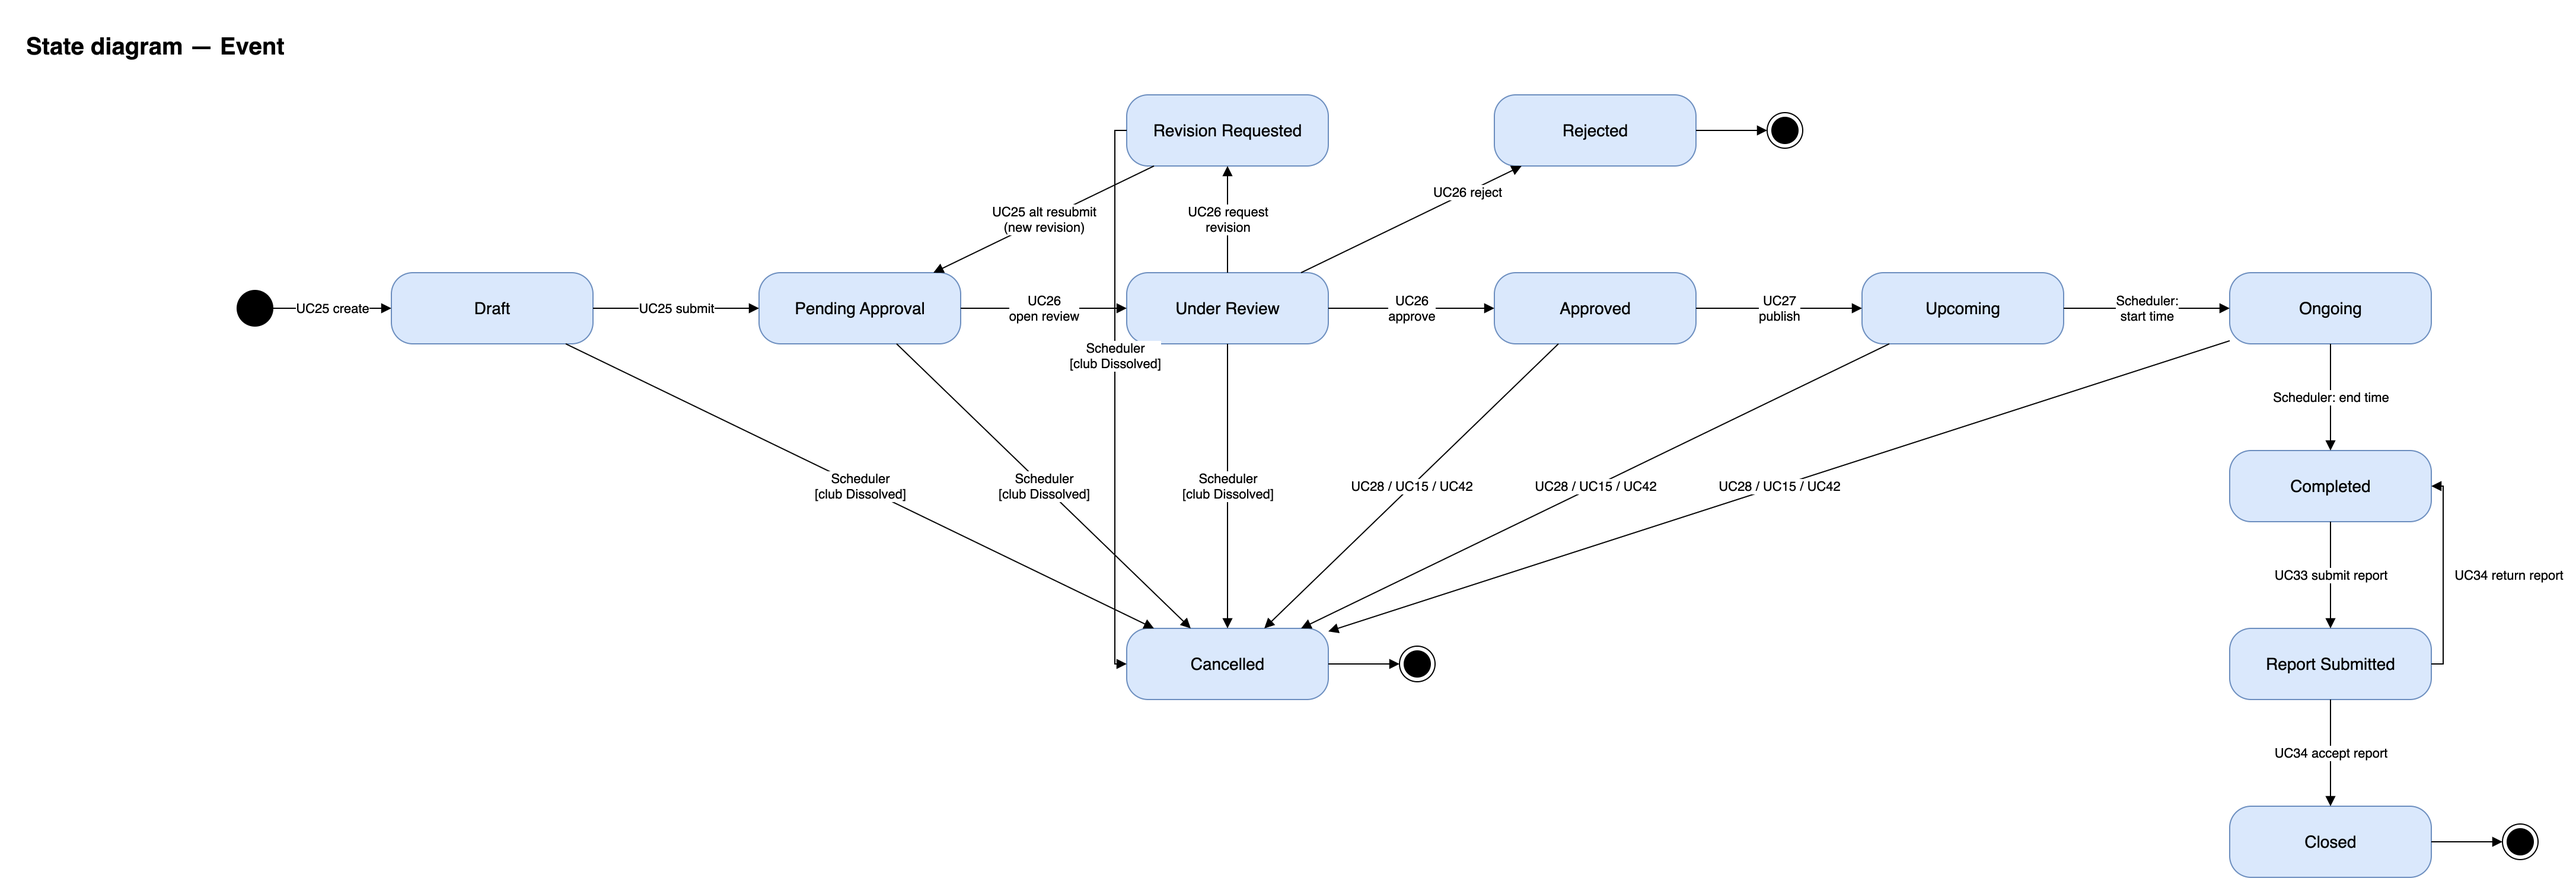
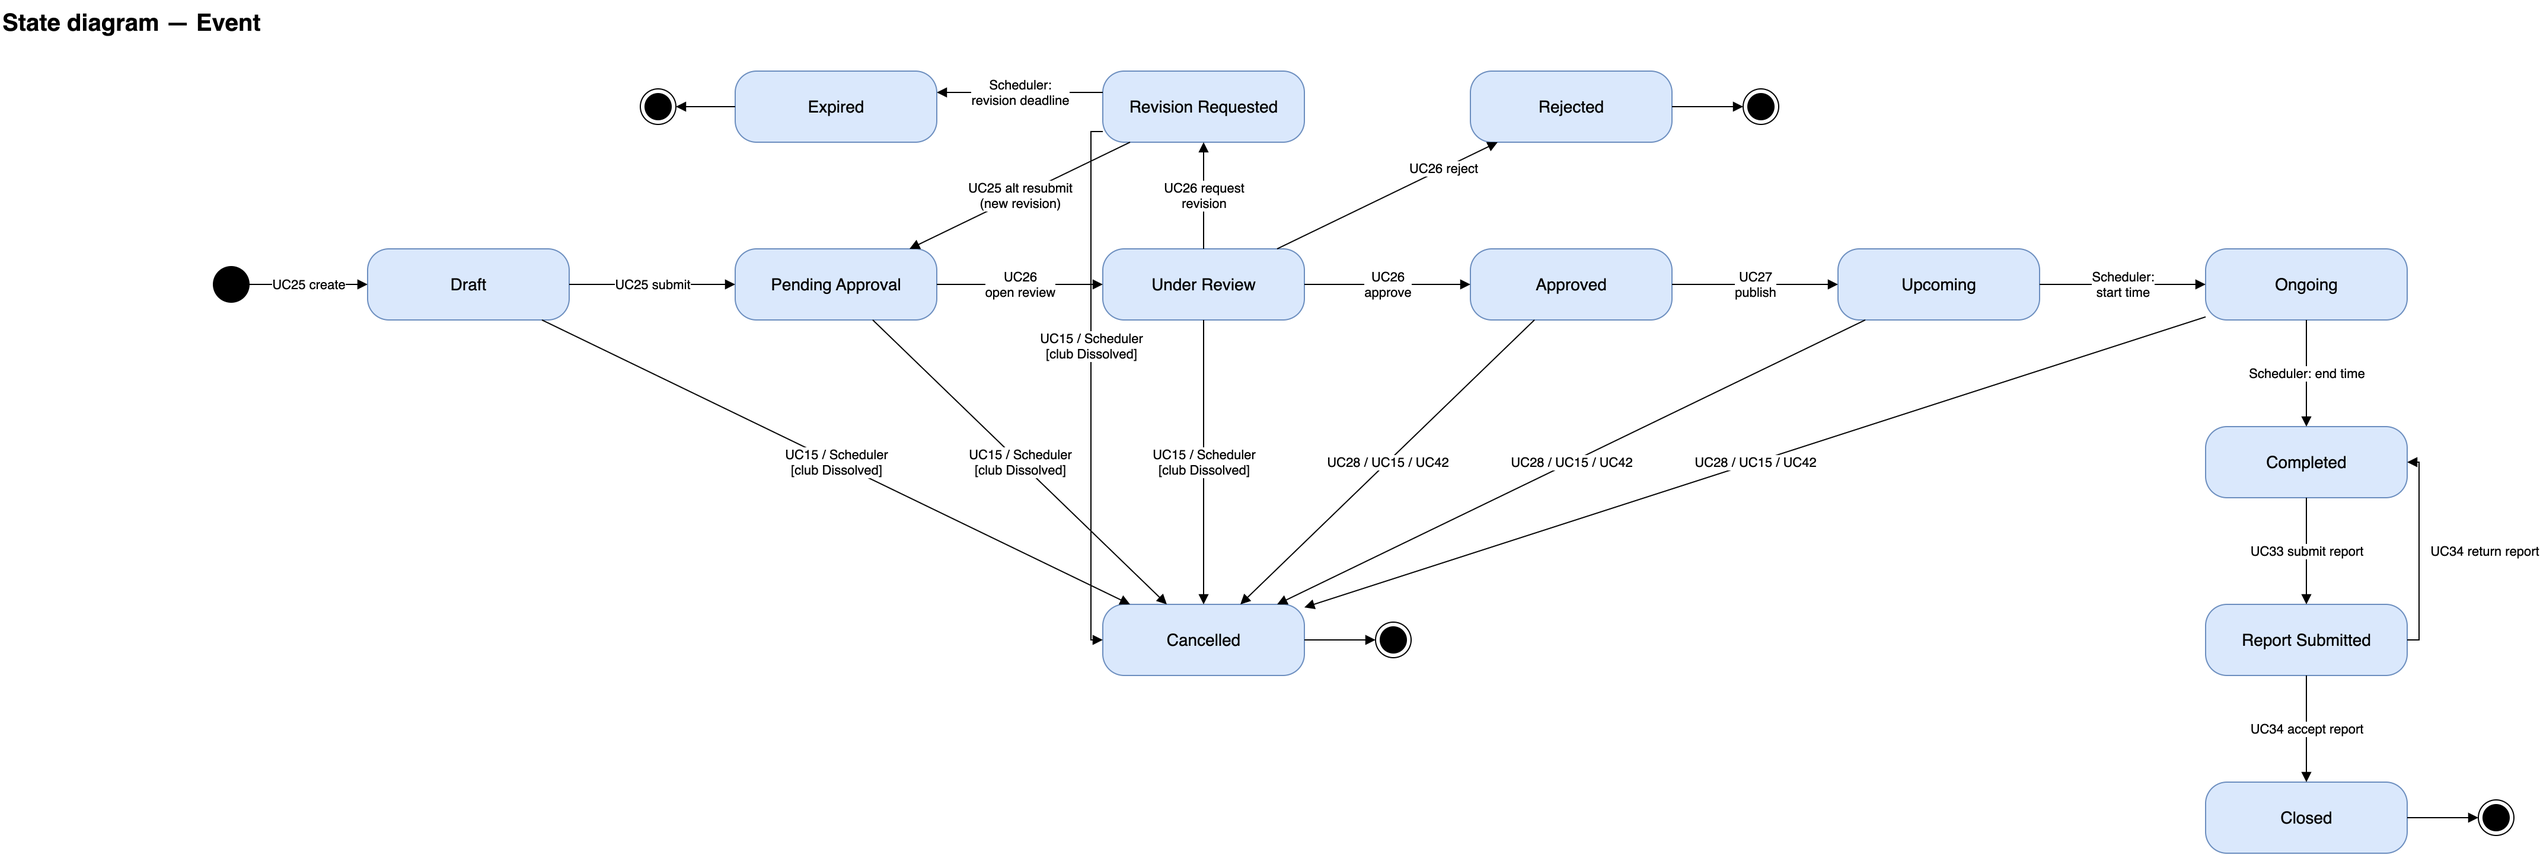
docs: add missing lifecycle states used by the spec (I07)
Model section 10 now lists every state the spec reaches:
- Withdrawn for club applications (new UC07 A3), recruitment
  applications (UC17 A2) and complaints (UC52 A1)
- Expired, driven by the scheduler, for club applications and
  event proposals after the revision deadline
- Cancelled replaces "closed" in UC26 E1 (UC15 suspension now
  cancels undecided proposals) and UC36 E1
- Exception in the budget request lifecycle, closed by UC39 (BR26)

The state diagrams and their PNG exports are updated to match.

diff --git a/docs/UCMS_UseCase_Model_v2.md b/docs/UCMS_UseCase_Model_v2.md
@@ -336,6 +336,7 @@ still applies.
 - **Alternative — resubmit (v1 UC05):** from `Revision Requested`, the applicant edits and
   resubmits; the system creates a **new version** and returns the application to `Submitted`.
 - **Alternative:** save as `Draft`.
+- **Alternative — withdraw:** before the decision, the applicant withdraws → `Withdrawn`.
 - **Exception:** a mandatory document is missing; fewer founding members than BR03 allows.
 - **Rules:** BR02, BR03, BR04 — a submitted version is never overwritten.
 - **Related:** UC08 · **Pain point:** BP04
@@ -352,6 +353,7 @@ still applies.
      a temporary founding CMB permission, limited to UC09 and UC10 while the club is
      `Pending Setup`;
   3. **Reject** — reason mandatory → `Rejected`, no Club is created.
+- **Exception:** the revision deadline passes with no resubmission → the scheduler sets `Expired`.
 - **Rules:** BR05 — actor, timestamp and reason are stored for every outcome. ICPDP never edits
   the applicant's data on their behalf. The decision history stays attached to the application
   and is visible here (this is what satisfies BP15 — no separate audit use case exists).
@@ -402,8 +404,8 @@ still applies.
 - **Actor:** ICPDP · **Goal:** Control the club lifecycle.
 - **Trigger:** a request (UC14), inactivity, a case outcome (UC42), or policy.
 - **Rules:** BR09, BR10, BR34 — a `Suspended` club opens no campaign, submits no event proposal
-  and receives no new booking; suspension cancels its approved future events and bookings through
-  UC28 (A1) and UC49.
+  and receives no new booking; suspension cancels its undecided event proposals, and its approved
+  future events and bookings through UC28 (A1) and UC49.
 - **Dissolution is scheduled, not immediate**, whoever triggers it:
   - at the decision, anything that would end after the `Dissolving` semester is cancelled
     through UC28 (A1) and UC49, and nothing new may end after it (BR45);
@@ -427,6 +429,7 @@ still applies.
 #### UC17 — Submit a club membership application
 - **Actor:** Student
 - **Flow:** pick a campaign (from UC06) → fill in the form → submit → `Submitted`.
+- **Alternative — withdraw:** before the decision → `Withdrawn`.
 - **Validation:** eligibility, the application window (BR11), no duplicate application (BR12),
   no `Banned` membership in this club (BR46).
 - **Related:** UC18, UC02
@@ -508,6 +511,8 @@ still applies.
 - **Flow:** review compliance, venue, time, budget estimate, risk, overdue obligations and the
   attached booking → choose: **request revision** (structured comments mandatory) →
   `Revision Requested`; **approve** → `Approved`; **reject** (reason mandatory) → `Rejected`.
+- **Exceptions:** the club is suspended before the decision → `Cancelled` by UC15; the revision
+  deadline passes → the scheduler sets `Expired`.
 - **Rules:** BR05, BR14, BR31 — ICPDP is the single approval authority; Facility, Security and
   Finance opinions are gathered outside the system and recorded in the review note. Approving a
   proposal that carries a booking request does **not** approve the booking; UC48 decides it.
@@ -593,6 +598,7 @@ still applies.
 - **Actor:** ICPDP
 - **Flow:** review eligibility, the available allocation, duplication and the state of the
   related activity → request revision, approve (possibly with a reduced amount) or reject.
+- **Exception:** the related event is rejected or cancelled → `Cancelled`.
 - **Rules:** BR05 mandatory audit; the approved amount may differ from the requested amount
   where policy allows.
 - **Related:** UC35, UC37
@@ -617,7 +623,7 @@ still applies.
 - **Actor:** ICPDP
 - **System computes:** approved, disbursed, recorded expenses, supported expenses, unsupported
   expenses, remaining balance, variance.
-- **Outcome:** `Reconciled` or `Exception`.
+- **Outcome:** `Reconciled` or `Exception`, then `Closed`.
 - **Rules:** BR26 — reconciliation must complete before a budget case closes. CMB does not
   co-own this decision; it reads the same figures through UC02, which is what removes v1 UC45's
   dual actor.
@@ -744,6 +750,7 @@ still applies.
 - **Input:** the club, the related event if any, the complaint type, the description, evidence.
 - **Flow:** select the club or event → choose a type → describe and attach evidence → submit →
   `Submitted`, ICPDP receives a task.
+- **Alternative — withdraw:** before triage decides → `Withdrawn`.
 - **Rules:** BR38 — the complaint goes straight to ICPDP; the club gains access only after
   UC53 forwards it. The complainant tracks progress through UC02.
 - **Related:** UC53 · **Pain point:** BP18
@@ -845,6 +852,10 @@ with no explanation.
 | Under Review → Revision Requested | UC08 |
 | Revision Requested → Submitted (new version) | UC07 alt |
 | Under Review → Approved / Rejected | UC08 |
+| Submitted / Under Review / Revision Requested → Withdrawn | UC07 alt (withdraw) |
+| Revision Requested → Expired | **Scheduler** (revision deadline set in UC08) |
+
+`Withdrawn` and `Expired` are final; after `Expired` the applicant starts a new application.
 
 ### 10.2 Club
 `Pending Setup → Active → Suspended ⇄ Active → Dissolving → Dissolved`
@@ -870,6 +881,8 @@ Drivers: UC16 for Draft → Published; the scheduler for the window opening and 
 ### 10.4 Recruitment Application
 `Draft → Submitted → Screening → Shortlisted → Accepted / Rejected / Waitlisted → Onboarded`.
 Drivers: UC17, then UC18 up to the decision, then UC20 for Onboarded.
+`Submitted / Screening / Shortlisted → Withdrawn` (final): UC17 alt, the student withdraws before
+the decision.
 
 ### 10.5 Event
 | From → To | Driver |
@@ -886,7 +899,8 @@ Drivers: UC17, then UC18 up to the decision, then UC20 for Onboarded.
 | Report Submitted → Closed | UC34 |
 | Report Submitted → Completed (report returned for correction) | UC34 |
 | Approved / Upcoming / Ongoing → Cancelled | UC28, or UC15 / UC42 on the club |
-| Draft / Pending Approval / Under Review / Revision Requested → Cancelled | UC15 (BR45), or the **Scheduler** when the club becomes `Dissolved` |
+| Draft / Pending Approval / Under Review / Revision Requested → Cancelled | UC15 (suspension, or dissolution per BR45), or the **Scheduler** when the club becomes `Dissolved` |
+| Revision Requested → Expired | **Scheduler** (revision deadline set in UC26); final, the club submits a new proposal |
 
 `Upcoming` covers the whole time between publication and the start, whether registration is open,
 closed, or not used at all (UC27 A2). `Registration Open` and `Registration Closed` are derived
@@ -894,8 +908,21 @@ from the registration window set in UC27, not states of the event — the same a
 feedback window in §10.11.
 
 ### 10.6 Budget Request
-`Draft → Submitted → Under Review → (Revision Requested → Submitted, new version) → Approved / Rejected → Disbursed → Reconciliation Pending → Reconciled → Closed`.
-Drivers: UC35, UC36, UC35 alt, UC36, UC37, UC39, UC39.
+| From → To | Driver |
+|---|---|
+| Draft → Submitted | UC35 |
+| Submitted → Under Review | UC36 |
+| Under Review → Revision Requested | UC36 |
+| Revision Requested → Submitted (new version) | UC35 alt |
+| Under Review → Approved / Rejected | UC36 |
+| Submitted / Under Review → Cancelled | UC36 (the related event is `Rejected` or `Cancelled`) |
+| Approved → Disbursed | UC37 |
+| Disbursed → Reconciliation Pending | UC39 (evidence returned for completion) |
+| Disbursed / Reconciliation Pending → Reconciled / Exception | UC39 |
+| Reconciled / Exception → Closed | UC39 (BR26) |
+
+`Exception` means reconciliation finished with a stated discrepancy; the case still closes, with
+the discrepancy on the record.
 
 ### 10.7 Violation
 `Open → Under Investigation → Awaiting Club Response → Decision Issued → Corrective Action → Resolved`.
@@ -928,6 +955,7 @@ Drivers: UC44 up to Data Ready, UC45 from Under Review.
 | Forwarded → Club Responded | **UC54** |
 | Club Responded → Closed / Escalated | UC53 |
 | Escalated → Violation Open | UC42 |
+| Submitted / Under Triage → Withdrawn | UC52 alt (final) |
 
 ### 10.11 Event Feedback
 `Submitted` — and nothing else.

diff --git a/docs/UCMS_UseCase_Specification_v2.md b/docs/UCMS_UseCase_Specification_v2.md
@@ -299,6 +299,8 @@ pain point of its own). All use cases ship in one release — see model §12.
   - **A2 Resubmit after revision (v1 UC05):** from `Revision Requested`, the student edits the
     flagged sections and resubmits; the system creates a **new version** and returns the
     application to `Submitted`. The previous version stays readable.
+  - **A3 Withdraw:** the student withdraws an application that has not been decided (`Submitted`,
+    `Under Review` or `Revision Requested`) → `Withdrawn`; any open review task is closed.
 - **Exceptions:**
   - **E1** a mandatory document is missing → submission refused, the application stays `Draft`;
   - **E2** fewer founding members than BR03 allows → refused;
@@ -334,10 +336,10 @@ pain point of its own). All use cases ship in one release — see model §12.
   - **A1 Second level:** when the routing rules of UC05 require it, the decision is
     escalated inside ICPDP before it takes effect.
 - **Exceptions:**
-  - **E1** the applicant withdraws while the application is under review → the review closes as
-    `Withdrawn`;
-  - **E2** the revision deadline passes with no resubmission → the application is closed as
-    `Expired`, and the applicant may start a new one.
+  - **E1** the applicant withdraws while the application is under review (UC07 A3) → the review
+    closes and the application is `Withdrawn`;
+  - **E2** the revision deadline passes with no resubmission → the scheduler moves the application
+    to `Expired`, and the applicant may start a new one.
 - **Postconditions:** The application is `Revision Requested`, `Approved` or `Rejected`; on
   approval a Club exists in `Pending Setup`, and the applicant holds a temporary founding CMB
   permission, limited to UC09 and UC10 while the club is `Pending Setup`, so that the founding
@@ -516,8 +518,9 @@ pain point of its own). All use cases ship in one release — see model §12.
   1. The officer opens the club and reviews its state, obligations and history.
   2. The officer chooses `Suspend`, `Reactivate` or `Dissolve` and enters the reason.
   3. The system applies the state change and its consequences:
-     - **Suspend** — new campaigns, event proposals and bookings are blocked; approved future
-       events and bookings are cancelled through UC28 and UC49;
+     - **Suspend** — new campaigns, event proposals and bookings are blocked; event proposals not
+       yet decided are `Cancelled`; approved future events and bookings are cancelled through
+       UC28 and UC49;
      - **Reactivate** — the club returns to `Active` with its history intact;
      - **Dissolve** — the decision is recorded with its effective semester: the next one in the
        academic calendar (UC04). Events, proposals and bookings that would end after that
@@ -604,7 +607,8 @@ pain point of its own). All use cases ship in one release — see model §12.
   5. The club receives the application; the student tracks it in UC02.
 - **Alternative Flows:**
   - **A1 Draft:** the application is saved and completed before the window closes.
-  - **A2 Withdraw:** the student withdraws an application that has not been decided.
+  - **A2 Withdraw:** the student withdraws an application that has not been decided
+    (`Submitted`, `Screening` or `Shortlisted`) → `Withdrawn`.
 - **Exceptions:**
   - **E1** the window has closed → refused;
   - **E2** the student already applied to this campaign → refused (BR12);
@@ -883,8 +887,10 @@ pain point of its own). All use cases ship in one release — see model §12.
   - **A2 Approve with conditions:** the approval carries conditions that the club must meet; they
     are checked again in UC34.
 - **Exceptions:**
-  - **E1** the club is suspended between submission and decision → the proposal is closed;
-  - **E2** the revision deadline passes → the proposal expires and must be resubmitted as new.
+  - **E1** the club is suspended between submission and decision → the proposal is `Cancelled`
+    by UC15;
+  - **E2** the revision deadline passes → the scheduler moves the proposal to `Expired`; the club
+    must submit a new proposal.
 - **Postconditions:** The proposal is `Revision Requested`, `Approved` or `Rejected`; only an
   approved event can be published in UC27.
 - **Business Rules:** BR05, BR14, BR31. Approving a proposal that carries a booking request does
@@ -1182,7 +1188,7 @@ pain point of its own). All use cases ship in one release — see model §12.
   - **A2 Partial approval per category:** individual lines are approved and others rejected, each
     with its reason.
 - **Exceptions:**
-  - **E1** the related event was rejected or cancelled → the request is closed;
+  - **E1** the related event was rejected or cancelled → the request is `Cancelled`;
   - **E2** the allocation for the period is exhausted → the officer rejects or defers, with the
     reason recorded.
 - **Postconditions:** The request is `Revision Requested`, `Approved` with an approved amount, or
@@ -1267,7 +1273,8 @@ pain point of its own). All use cases ship in one release — see model §12.
     `Reconciliation Pending`.
 - **Exceptions:** **E1** the disbursed amount exceeds the approved amount → the case cannot be
   reconciled until an amendment exists (BR23).
-- **Postconditions:** The case is `Reconciled` or `Exception`, and can then be `Closed` (BR26).
+- **Postconditions:** The case is `Reconciled` or `Exception`; the officer then closes it here →
+  `Closed` (BR26). An `Exception` case closes with its discrepancy on the record.
 - **Business Rules:** BR23, BR24, BR26. ICPDP is the only primary actor; CMB reads the same
   figures through UC02, which is what removes v1 UC45's two primary actors.
 - **Output:** Reconciliation result, audit record; input to UC44.
@@ -1630,7 +1637,8 @@ pain point of its own). All use cases ship in one release — see model §12.
   4. The student submits → `Submitted`; ICPDP receives a task.
   5. The student tracks the progress in UC02.
 - **Alternative Flows:**
-  - **A1 Withdraw:** the student withdraws a complaint that has not been decided.
+  - **A1 Withdraw:** the student withdraws a complaint that has not been decided (`Submitted` or
+    `Under Triage`) → `Withdrawn`.
 - **Exceptions:** **E1** the same student files a duplicate complaint on the same facts → the
   complaints are linked and triaged together.
 - **Postconditions:** The complaint is `Submitted` and trackable.

diff --git a/docs/UCMS_Review_Issues.md b/docs/UCMS_Review_Issues.md
@@ -32,7 +32,7 @@ Ngày review: 2026-09-23.
 | I04 | 🔴 | UC28: Model nói "không mô hình hoá ICPDP huỷ event", Spec lại có luồng A1 | Model UC28, Spec UC28, UCD | Đã sửa | Giữ A1 của Spec: hệ thống tự huỷ event theo UC15/UC42, ICPDP không là actor; sửa câu ở Model cho khớp |
 | I05 | 🔴 | Dissolve club: Model có huỷ event/booking, Spec thì không | Model UC15, Spec UC15 | Đã sửa | Giải thể có lịch: kỳ quyết định chạy bình thường → kỳ sau `Dissolving` → cuối kỳ đó `Dissolved`; BR44/BR45 bảo đảm không event nào còn chạy |
 | I06 | 🔴 | Trạng thái sau khi resubmit không khớp precondition của UC duyệt | Spec UC07/08, UC25/26, UC35/36, UC47/48; Model §10 | Đã sửa | Nộp lại tạo phiên bản mới và quay về trạng thái chờ duyệt (`Submitted` / `Pending Approval` / `Requested`) |
-| I07 | 🔴 | Spec dùng các trạng thái không có trong lifecycle | Spec UC08, UC17, UC26, UC36, UC39, UC52; Model §10 | Chưa xử lý | — |
+| I07 | 🔴 | Spec dùng các trạng thái không có trong lifecycle | Spec UC08, UC17, UC26, UC36, UC39, UC52; Model §10 | Đã sửa | Thêm `Withdrawn`, `Expired`, `Exception` vào Model §10; "closed" trong Spec đổi thành `Cancelled`; cập nhật state diagram |
 | I08 | 🔴 | BR40 (số người phản hồi tối thiểu) có trong UC04 của Spec, không có trong Model | Spec UC04, Model UC04 | Đã sửa | Thêm BR40 vào Model UC04 cho khớp Spec; D3 chỉ còn là giá trị mặc định |
 | I09 | 🟡 | `UC15 «include» UC28/UC49` sai: chỉ xảy ra có điều kiện, lại khác actor | UCD ICPDP 1, CMB 3 | Đã sửa | Đổi thành `UC28 «extend» UC15` và `UC49 «extend» UC15` |
 | I10 | 🟡 | `UC30 «extend» UC29` sai: waitlist đã nằm trong UC29 A1 | UCD Student, CMB 3 | Đã sửa | Bỏ `UC30 «extend» UC29` và node mượn; UC30 chuyển sang Phase 1 |
@@ -255,10 +255,32 @@ Ngày review: 2026-09-23.
 - **Cách sửa đề xuất:** thêm các trạng thái này (kèm UC điều khiển) vào Model §10, hoặc bỏ khỏi
   Spec. Với loại 3, nên dùng `Cancelled` thay vì "closed" để không đụng nghĩa `Closed` hiện có.
 - **Xử lý:**
-  - Ngày: —
-  - File đã sửa: —
-  - Thay đổi: —
-  - Lý do: —
+  - Ngày: 2026-09-24
+  - File đã sửa: `UCMS_UseCase_Model_v2.md` (§10.1, §10.4, §10.5, §10.6, §10.10; tóm tắt UC07, UC08,
+    UC15, UC17, UC26, UC36, UC39, UC52), `UCMS_UseCase_Specification_v2.md` (UC07, UC08, UC15,
+    UC17, UC26, UC36, UC39, UC52), `diagrams/UCMS_State_Diagrams.drawio` (trang Club Application,
+    Recruitment Application, Event, Budget Request) và 4 PNG tương ứng trong `diagrams/img/`.
+  - Thay đổi:
+    - **Rút đơn → `Withdrawn`** (trạng thái cuối): §10.1 `Submitted / Under Review / Revision
+      Requested → Withdrawn` (UC07 alt — thêm Spec UC07 A3 *Withdraw*); §10.4 `Submitted /
+      Screening / Shortlisted → Withdrawn` (UC17 A2); §10.10 `Submitted / Under Triage →
+      Withdrawn` (UC52 A1). Spec UC17 A2, UC52 A1 ghi rõ trạng thái nào được rút.
+    - **Hết hạn → `Expired`** (trạng thái cuối, Scheduler): §10.1 và §10.5 `Revision Requested →
+      Expired`. Spec UC08 E2, UC26 E2 ghi scheduler là driver.
+    - **"closed" → `Cancelled`**: UC26 E1 → `Cancelled` do UC15; Spec UC15 *Suspend* và Model UC15
+      thêm "huỷ proposal chưa quyết"; driver ở §10.5 thành "UC15 (suspension, or dissolution per
+      BR45)". UC36 E1 → `Cancelled`; §10.6 thêm `Submitted / Under Review → Cancelled` (UC36).
+    - **`Exception`**: §10.6 chuyển từ chuỗi một dòng sang bảng; thêm `Disbursed / Reconciliation
+      Pending → Reconciled / Exception` và `Reconciled / Exception → Closed` (UC39, BR26). Spec
+      UC39 postcondition: officer đóng case ngay trong UC39.
+    - State diagram: thêm ô `Withdrawn`, `Expired`, `Cancelled`, `Exception` cùng các cạnh; nhãn
+      4 cạnh huỷ proposal ở trang Event đổi thành `UC15 / Scheduler [club Dissolved]`.
+  - Lý do: chọn **thêm vào Model** thay vì bỏ khỏi Spec, vì các tình huống này đều có thật (người
+    nộp rút đơn, quá hạn chỉnh sửa, event bị huỷ kéo theo budget). Dùng `Cancelled` thay "closed"
+    vì `Closed` đã có nghĩa khác (sau báo cáo / sau đối soát). `Exception` giữ nguyên tên vì
+    Model UC39 đã dùng.
+  - Chưa sửa: budget request ở `Revision Requested` khi event bị huỷ chưa có đường ra (UC36 E1
+    chỉ chạy khi officer đang xét); `UCMS_UseCase_Specifications_v2.docx` cần xuất lại.
 
 ### I08 — BR40 trong UC04
 - **Vấn đề:** Spec UC04 có cấu hình "số người phản hồi tối thiểu" (BR40); Model UC04 không có, và
